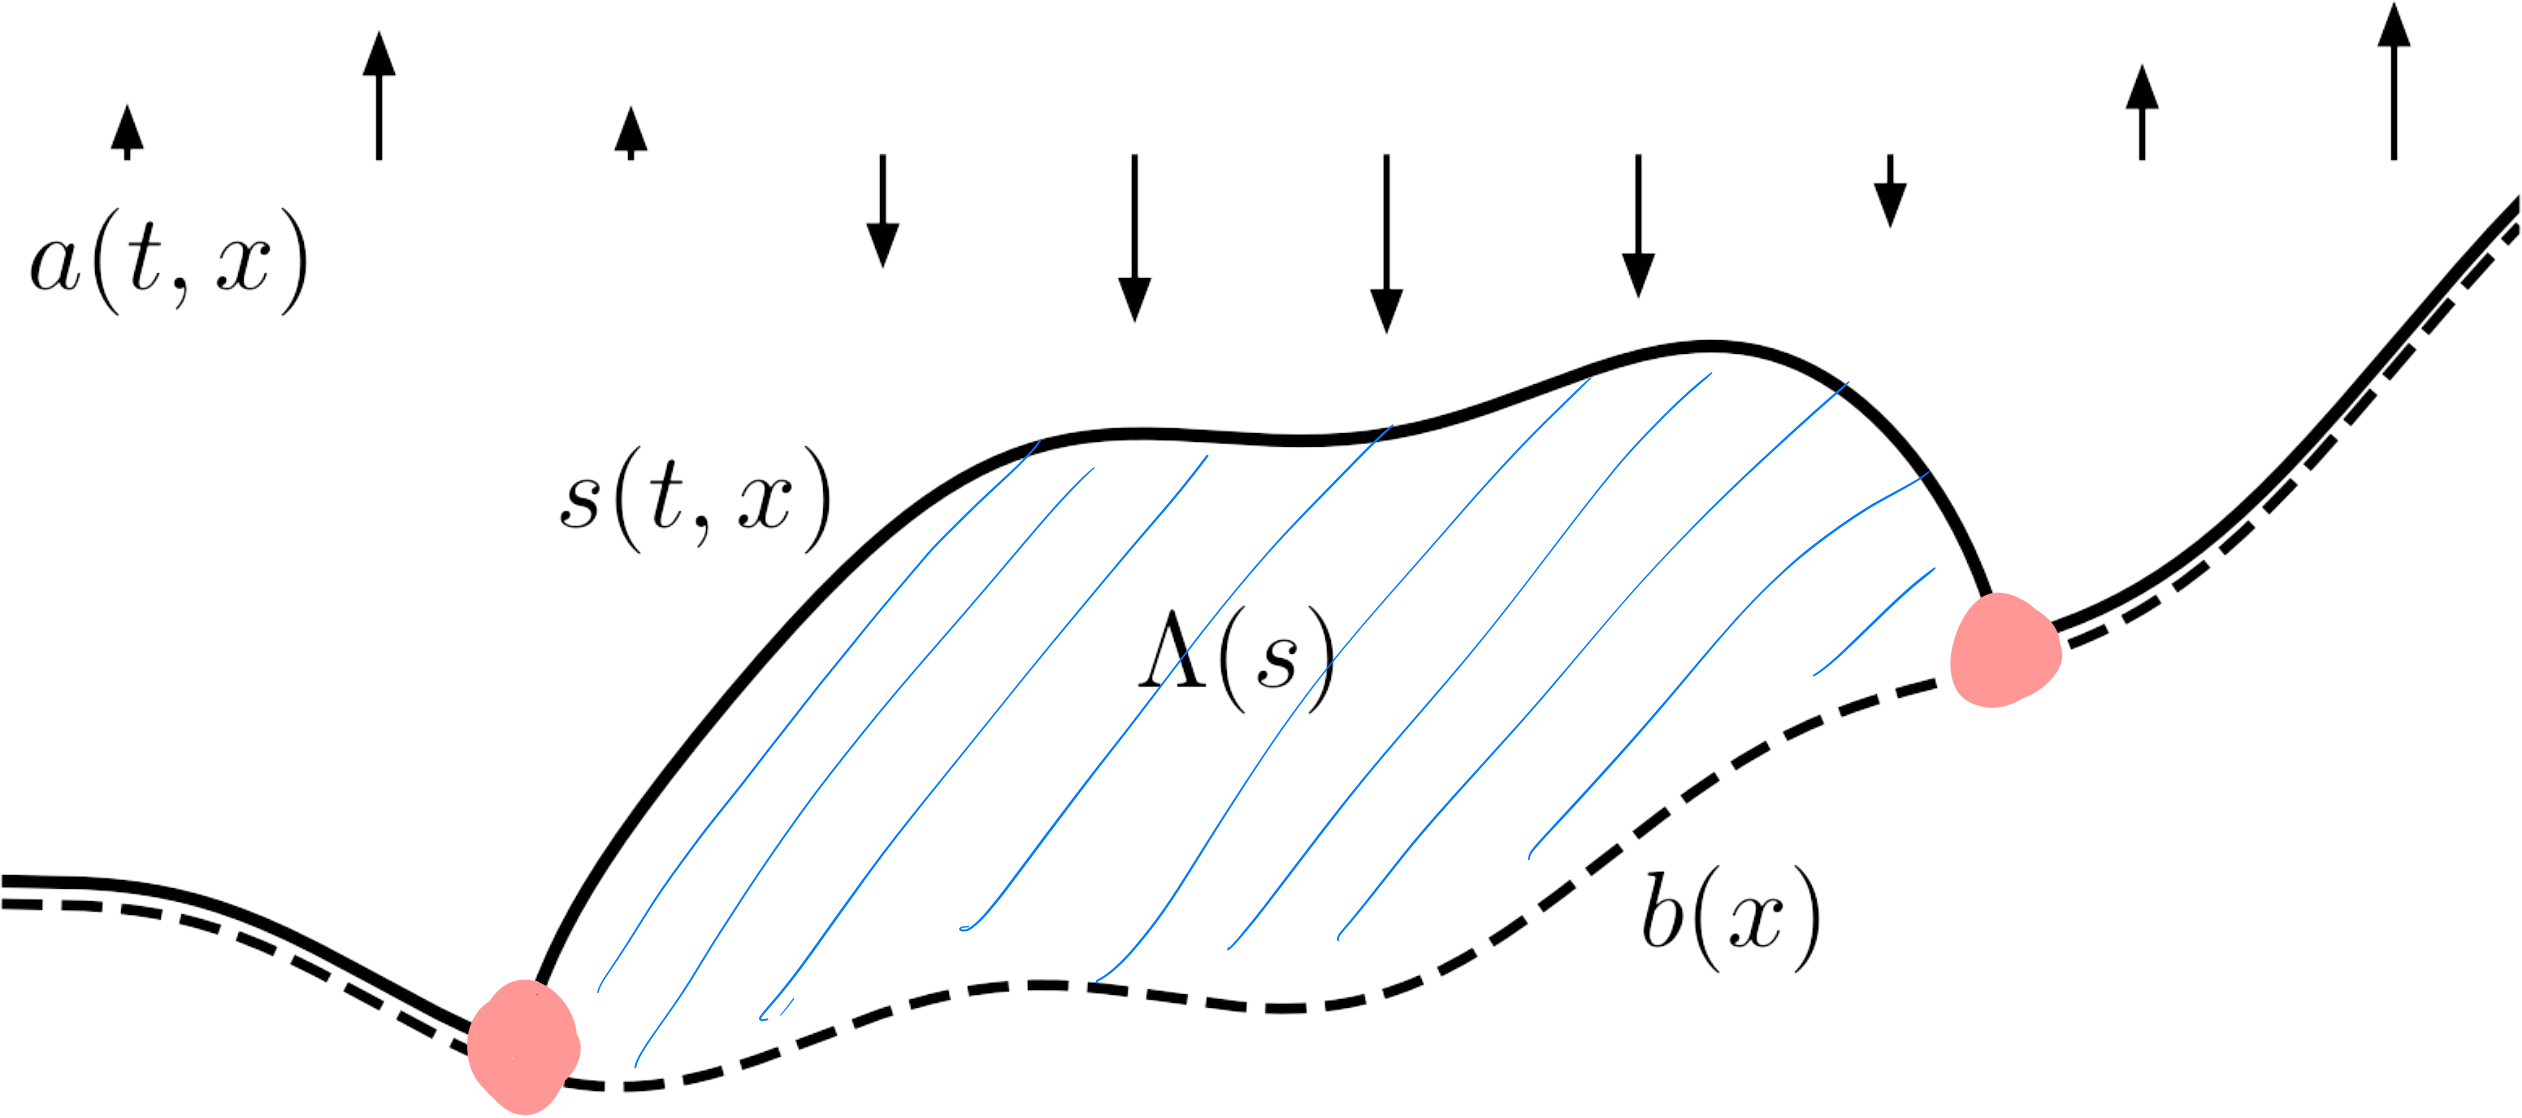
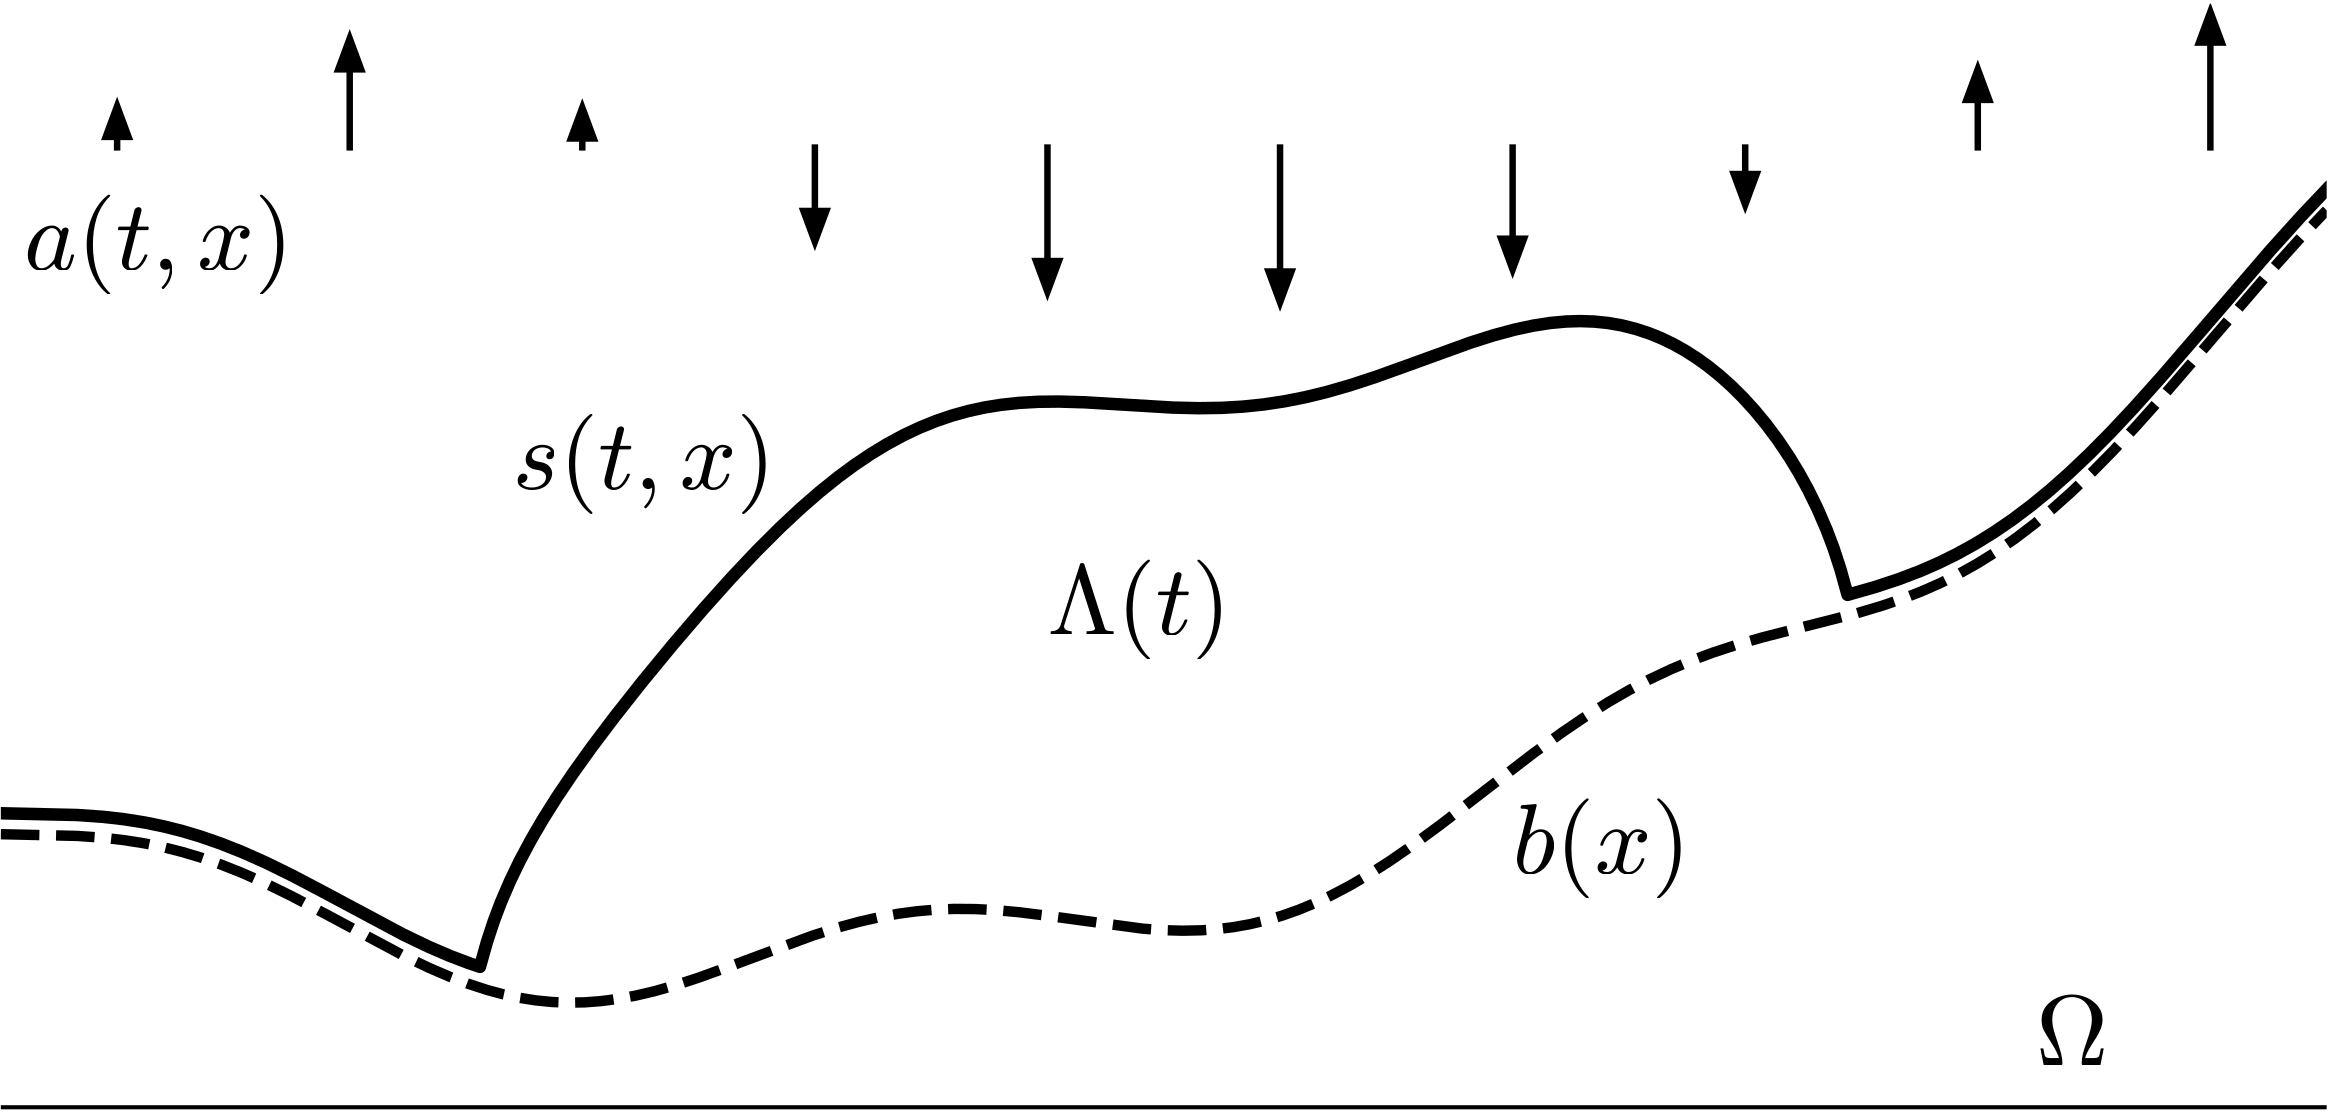
more progress ... maybe this will work

diff --git a/talk/KTHSU25/slides.tex b/talk/KTHSU25/slides.tex
@@ -70,6 +70,7 @@
 
 \newcommand{\bzero}{\bm{0}}
 
+\newcommand{\cH}{\mathcal{H}}
 \newcommand{\cK}{\mathcal{K}}
 \newcommand{\cV}{\mathcal{V}}
 \newcommand{\cX}{\mathcal{X}}
@@ -199,11 +200,11 @@ Add the above: \quad $0 \ge (F(y) - F(x)) \cdot (x-y) +  \alpha \|x - y\|^2$. \q
 \only<2>{
 \begin{itemize}
 \item the solution defines \emph{\aler{active}} $A_u = \{u = \psi\}$ and \emph{\aler{inactive}} $R_u = \{u> \psi\}$ subsets of $\Omega$, and a \emph{\aler{free boundary}} $\Gamma_u=\partial R_u \cap \Omega$
-\item the intuitive/naive strong form poses the problem in terms of its solution (\aler{nonsense}):
+\item the intuitive/naive strong form poses the problem in terms of its solution, a kind of nonsense:
     $$-\grad^2 u = \varphi \quad \text{ on $R_u$, \qquad and \qquad} u = \psi \quad \text{ on $A_u$}$$
-\item the \aler{nonlinear complementarity problem} strong form has sensible statements everywhere on $\Omega$:
-	$$u\ge \psi, \quad -\grad^2 u - \varphi \ge 0, \quad (u-\psi) (-\grad^2 u - \varphi) = 0$$
 \end{itemize}
+
+\vspace{20mm}
 }
 \end{frame}
 
@@ -242,6 +243,25 @@ Add the above: \quad $0 \ge (F(y) - F(x)) \cdot (x-y) +  \alpha \|x - y\|^2$. \q
 \begin{itemize}
 \item $v-u \in \cX$ is a vector pointing feasibly into $\cK$
 \item $(F(u)-\ell)[v-u] \ge 0$ \, $\iff$ \, ``$F(u)-\ell$ is within $90^\circ$ of any $v-u$''
+\end{itemize}
+\end{frame}
+
+
+\begin{frame}{complementarity, a key idea about VIs}
+
+\begin{itemize}
+\item if $u\in\cK$ solves a VI, namely
+$$F(u)[v-u] \ge \ell[v-u] \quad \text{ for all } v \in \mathcal{K},$$
+then \aler{generally the residual $F(u)-\ell$ is nonzero}
+    \begin{itemize}
+    \item[$\circ$] if $\cK=\cX$ (unconstrained) then $F(u)-\ell=0$
+    \end{itemize}
+\item for a unilateral obstacle problem, with $\cK = \{v\in\cX\,:\,v\ge \psi\}$, the residual $F(u)-\ell$ is at least \aler{nonnegative}
+    \begin{itemize}
+    \item[$\circ$] for classical obstacle problem:
+	$$u\ge \psi, \quad -\grad^2 u - \varphi \ge 0, \quad (u-\psi) (-\grad^2 u - \varphi) = 0$$
+    \item<2>[$\circ$] the residual is a positive measure $d\mu_u = F(u)-\ell$ supported in the active set $A_u=\{x\,:\, u(x)=\psi(x)\}$
+    \end{itemize}
 \end{itemize}
 \end{frame}
 
@@ -329,91 +349,55 @@ $$F_h(u_h)[v_h-u_h] \ge \ell[v_h-u_h] \quad \forall v_h \in \cK_h$$
 conforming (?) assumptions:
 \begin{itemize}
 \item $\cK_h \subset \cX_h \subset \cX$
+
+\only<1>{\vspace{22mm}}
 \item<2> \aler{generally $\cK_h \not\subseteq \cK$}
 \item<2> \aler{generally $F_h\neq F$}
 \end{itemize}
 
 \vspace{-25mm}
-\hfill \input{tikz/nonadmissible.tex}
+\hfill \only<2>{\input{tikz/nonadmissible.tex}}
 \end{frame}
 
 
-\begin{frame}{theorem}
+\begin{frame}{\emph{a priori} error bound}
 
 \begin{thm}[B.~'25] assume $F$ is $\qq$-coercive with $\qq>1$ and $\alpha>0$, and Lipschitz continuous.  then there is $c=c(\|u\|,\|u_h\|,\alpha)>0$ so that
 \begin{align*}
 \|u-u_h\|^\qq &\le \frac{2}{\alpha} \left(\inf_{v\in\cK} \left(F(u)-\ell\right)[v-u_h] + \inf_{v_h\in\cK_h} \left(F(u)-\ell\right)[v_h-u]\right) \\
-   &\quad\, + \frac{2}{\alpha} \left(F(u_h)-F_h(u_h)\right)[u_h] + c \inf_{v_h\in\cK_h} \|v_h - u\|^{\qq'}. \notag
+   &\quad\, + \frac{2}{\alpha} \left(F(u_h)-F_h(u_h)\right)[u_h] + c \inf_{v_h\in\cK_h} \|v_h - u\|^{\qq'}
 \end{align*}
 \end{thm}
 
 \begin{itemize}
-\item<2> in the unconstrained case ($\cK=\cX$ and $\cK_h=\cX_h$) with no variational crimes ($F_h=F$), then this is Cea's lemma in a Banach space:
+\only<1>{\item in the unconstrained case ($\cK=\cX$ and $\cK_h=\cX_h$), with no variational crimes ($F_h=F$), this is Cea's lemma in a Banach space:
     $$\|u-u_h\|^\qq \le c \inf_{v_h\in\cK_h} \|v_h - u\|^{\qq'}$$
+
+\vspace{5.5mm}
+\phantom{foo}}
+\only<2>{\item if $\cX$ is a Hilbert space, $F(u)[v]=(Au,v)$ is linear, $\cX \subset \cH$ for some Hilbert space $\cH$, $\qq=2$, and with no variational crimes ($F_h=F$), then this is Falk's (1974) theorem:
+{\small
+\begin{align*}
+\|u-u_h\|^2 &\le \frac{2}{\alpha} \|Au-\ell\|_{\cH'} \left(\inf_{v\in\cK} \|v-u_h\|_{\cH} + \inf_{v_h\in\cK_h} \|v_h-u\|_{\cH}\right) \\
+   &\quad\, + c \inf_{v_h\in\cK_h} \|v_h - u\|^2
+\end{align*}
+}}
 \end{itemize}
-\end{frame}
-
-
-\begin{frame}{FIXME}
-
-FIXME
-\end{frame}
-
-\begin{frame}{FIXME}
-
-FIXME
 \end{frame}
 
 
 \section{the standard glacier model}
 
-\begin{frame}{glacier evolution in space-time \only<2>{ \dots implicitly?}}
-
-\bigskip \bigskip
-
-\begin{columns}
-\begin{column}{0.28\textwidth}
-\begin{itemize}
-\item[a)] what is true within the {\color{RoyalBlue} ice}?
-\item[b)] what is true on {\color{OliveDrab} bare land}?
-\item[c)] what is true on {\color{Salmon} free boundary}?
-\end{itemize}\end{column}
-\begin{column}{0.72\textwidth}
-FIXME %\only<1>{\includegraphics[height=65mm]{xtcrop}}\only<2>{\includegraphics[height=65mm]{implicitstep}}
-\end{column}
-\end{columns}
-\end{frame}
-
-\begin{frame}{the 3 views}
-
-\vspace{-2mm}
-\begin{center}
-FIXME %\includegraphics[width=0.55\textwidth]{xtcrop}
-\end{center}
-
-\vspace{-2mm}
-\begin{columns}
-\begin{column}{0.43\textwidth}
-\includegraphics[width=0.9\textwidth]{mapplane}
-\end{column}
-\begin{column}{0.57\textwidth}
-FIXME %\hfill \includegraphics[width=\textwidth]{stokesdomainOmega}
-\end{column}
-\end{columns}
-\end{frame}
-
-
-\begin{frame}{what is true everywhere in $[0,T]\times\Omega$?}
+\begin{frame}{the free-boundary problem for glacier surface elevation}
 
 \hfill \includegraphics[width=0.37\textwidth]{mapplane}
 
-\vspace{-40mm}
+\vspace{-35mm}
 
 \begin{minipage}[t]{60mm}
 {\small
 \begin{itemize}
-\item $\Omega \subset \RR^2$ fixed simulation domain
-\item $x = (x_1,x_2) \in \Omega$
+\item $\Omega \subset \RR^2$ fixed domain
 \item $a(t,x)$ surface mass balance (SMB)
 \item $b(x)$ bed elevation
 \item $s(t,x)$ \emph{solution} surface elevation
@@ -424,7 +408,7 @@ FIXME %\hfill \includegraphics[width=\textwidth]{stokesdomainOmega}
 \end{minipage}
 
 \begin{itemize}
-\item nonlinear complementarity problem (NCP) in $[0,T] \times \Omega$:
+\item an obstacle problem, here in complementarity problem form, holds in $[0,T] \times \Omega$:
 \begin{align*}
 s - b &\ge 0 &&\phantom{x} \\
 \frac{\partial s}{\partial t} - \bu|_s \cdot \bn_s - a &\ge 0 \\
@@ -437,9 +421,9 @@ s - b &\ge 0 &&\phantom{x} \\
 \begin{frame}{the free-boundary problem for glacier surface elevation}
 
 \begin{itemize}
-\item surface kinematical equation (SKE) in glaciology:
+\item free surface equation:
    $$\frac{\partial s}{\partial t} - \bu|_s \cdot \bn_s - a = 0$$
-\item our time-dependent, nonlinear complementarity problem (NCP) is the underlying \emph{free-boundary} meaning of the SKE:
+\item but the complementarity problem is the actual \emph{free-boundary} meaning of the free surface equation:
 \begin{align*}
 s - b &\ge 0 &&\phantom{x} \\
 \frac{\partial s}{\partial t} - \bu|_s \cdot \bn_s - a &\ge 0 \\
@@ -447,57 +431,58 @@ s - b &\ge 0 &&\phantom{x} \\
 \end{align*}
 
     \begin{itemize}
+    \item[$\circ$] says: free surface equation holds where there is ice
+    \item[$\circ$] says: $a\le 0$ where there is no ice
     \item[$\circ$] applies regardless of dynamical model within the ice
-    \item[$\circ$] this NCP appears in (Calvo et al 2003), but only for shallow ice
+    \item[$\circ$] this appears first in (Calvo et al 2003), but only for shallow ice
     \end{itemize}
-\item state-of-the-art numerically: first-order explicit time-stepping
 \end{itemize}
 \end{frame}
 
 
-\begin{frame}{what is true within the ice?}
+\begin{frame}{Glen-Stokes equations within the ice}
 
-\hfill \includegraphics[width=0.55\textwidth]{stokesdomain}
+\hfill \includegraphics[width=0.45\textwidth]{stokesdomain.png}
 
-\vspace{-5mm}
+\vspace{-4mm}
 
 \begin{itemize}
-\item fix $t$ and define:
-    $$\Lambda(s) = \{(x,z)\,:\,b(x)<z<s(t,x)\} \qquad \subset \RR^3$$
-\item Glen-Stokes equations in $\Lambda(s)$ with $\pp = (\nn + 1)/\nn \approx 4/3$:
+\item define:
+    $$\Lambda(t) = \{(x,z)\,:\,b(x)<z<s(t,x)\} \hspace{20mm}$$
+\item Glen-Stokes equations in $\Lambda(t)$ with $\pp = (\nn + 1)/\nn \approx 4/3$:
 \begin{align*}
 - \nabla \cdot \left(2 \nu(D\bu)\, D\bu\right) + \nabla p &= \rhoi \bg  \\
 \nabla \cdot \bu &= 0  \\
-\nu(D\bu) &= \nu_0 |D\bu|^{\pp-2} && \quad {\scriptsize \leftarrow \text{needs regularization}}
+\nu(D\bu) &= \nu_0 |D\bu|^{\pp-2} && \phantom{foo}
 \end{align*}
 
 \vspace{-1mm}
-\item boundary conditions:
+\item stress boundary conditions:
 \begin{align*}
-&\left(2 \nu(D\bu) D\bu - pI\right) \bn_s = \bzero   && \where{on $\Gamma_s \subset \partial\Lambda(s)$} \\
-&\bu  = \bzero \text{ } \,\text{or } \,f(\bu,D\bu)=0 && \where{on $\Gamma_b \subset \partial\Lambda(s)$}
+&\left(2 \nu(D\bu) D\bu - pI\right) \bn_s = \bzero   && \where{on $\Gamma_s \subset \partial\Lambda(t)$} \\
+&f(\bu,D\bu)=0 && \where{on $\Gamma_b \subset \partial\Lambda(t)$}
 \end{align*}
 \end{itemize}
 \end{frame}
 
 
-\begin{frame}{\underline{the} standard model for glacier evolution}
+\begin{frame}{\underline{the} standard model for glacier evolution?}
 
 \begin{align*}
 s - b &\ge 0 & &\where{in $\Omega$} \\
 \frac{\partial s}{\partial t} - \bu|_s \cdot \bn_s - a &\ge 0 \\
 (s - b) \left(\frac{\partial s}{\partial t} - \bu|_s \cdot \bn_s - a\right) &= 0 \\
-- \nabla \cdot \left(2 \nu_0 |D\bu|^{\pp-2}\, D\bu\right) + \nabla p &= \rhoi \bg && \where{in $\Lambda(s)$} \\
+- \nabla \cdot \left(2 \nu_0 |D\bu|^{\pp-2}\, D\bu\right) + \nabla p &= \rhoi \bg && \where{in $\Lambda(t)$} \\
 \nabla \cdot \bu &= 0 \\
-\left(2 \nu(D\bu) D\bu - pI\right) \bn_s &= \bzero && \where{on $\Gamma_s \subset \partial\Lambda(s)$} \\
-\bu  = \bzero \quad \text{or} \quad f(\bu,D\bu) &= 0 && \where{on $\Gamma_b \subset \partial\Lambda(s)$}
+\left(2 \nu(D\bu) D\bu - pI\right) \bn_s &= \bzero && \where{on $\Gamma_s \subset \partial\Lambda(t)$} \\
+f(\bu,D\bu) &= 0 && \where{on $\Gamma_b \subset \partial\Lambda(t)$}
 \end{align*}
 
 \bigskip
 \newtheorem*{smodel}{standard model}
 
 \begin{smodel}
-an NCP in $[0,T]\times \Omega$, for fixed $\Omega \subset \RR^2$, coupled to a Glen-Stokes problem within the ice, in $\Lambda(s) \subset \RR^3$
+a complementarity problem (obstacle problem) in $[0,T]\times \Omega$, for fixed $\Omega \subset \RR^2$, coupled to a Glen-Stokes problem within the ice $\Lambda(t) \subset \RR^3$
 \end{smodel}
 \end{frame}
 
@@ -514,14 +499,6 @@ an inequality-constrained \textbf{differential algebraic system} in $\infty$ dim
 \end{block}
 \end{frame}
 
-
-\AtBeginSection[]
-{
-  \begin{frame}<beamer>
-    \frametitle{Outline}
-    \tableofcontents[currentsection,hideallsubsections]
-  \end{frame}
-}
 
 
 \section{well-posed implicit steps?}
@@ -668,22 +645,6 @@ find $s\in\cK = \{r \ge b\}$ which solves the backward-Euler step VI:
 \end{itemize}
 
 \phantom{x}
-\end{frame}
-
-
-\begin{frame}{implementation \alert{\dots in progress}}
-
-\begin{itemize}
-\item extruded-mesh Stokes solver infrastructure: \href{https://github.com/bueler/stokes-extrude}{github.com/bueler/stokes-extrude}
-\item solver in Firedrake/PETSc:
-    \begin{itemize}
-    \item[$\circ$] VI-adapted, reduced-space Newton method
-    \item[$\circ$] for admissible surface elevation iterates $s_h^{(j)} \ge b_h$, \alert{each residual evaluation $F(s_h^{(j)})$ requires solving the Glen-Stokes model on $\Lambda(s_h^{(j)})$ to get $\bu_h^{(j)}$}
-    \end{itemize}
-\item accelerate using new FASCD nonlinear multigrid scheme (Bueler \& Farrell, 2024), using above solver as the smoother
-\end{itemize}
-
-\bigskip
 \end{frame}
 
 

diff --git a/talk/KTHSU25/references.tex b/talk/KTHSU25/references.tex
@@ -3,9 +3,9 @@
 \begin{itemize}
 %\item E.~Bueler (2021). \emph{Conservation laws for free-boundary fluid layers}, SIAM J.~Appl.~Math.~81 (5), 2007--2032 \sdoi{10.1137/20M135217X}
 %\item E.~Bueler (2022). \emph{Performance analysis of high-resolution ice-sheet simulations}, J.~Glaciol.~69 (276), 930--935 \sdoi{10.1017/jog.2022.113}
-\item E.~Bueler (2025). \emph{Surface elevation errors in finite element {S}tokes models for glacier evolution}, \surl{https://arxiv.org/abs/2408.06470}{arxiv:2408.06470}
+\item E.~Bueler (2025). \emph{Surface elevation errors in finite element {S}tokes models for glacier evolution}, in preparation \surl{https://arxiv.org/abs/2408.06470}{arxiv:2408.06470}
 %\item E.~Bueler \& P.~Farrell (2024).  \emph{A full approximation scheme multilevel method for nonlinear variational inequalities}, SIAM J.~Sci.~Comput.~46 (4), \sdoi{10.1137/23M1594200}
-%\item N.~Calvo and others (2003). \emph{On a doubly nonlinear parabolic obstacle problem modelling ice sheet dynamics}, SIAM J.~Appl.~Math.~63 (2), 683--707 \sdoi{10.1137/S0036139901385345}
+\item N.~Calvo and others (2003). \emph{On a doubly nonlinear parabolic obstacle problem modelling ice sheet dynamics}, SIAM J.~Appl.~Math.~63 (2), 683--707 \sdoi{10.1137/S0036139901385345}
 \item R.~Falk (1974).  \emph{Error estimates for the approximation of a class of variational inequalities}, Mathematics of Computation 28 (128), 963--971
 %\item G.~Jouvet \& E.~Bueler (2012). \emph{Steady, shallow ice sheets as obstacle problems: well-posedness and finite element approximation}, SIAM J.~Appl.~Math.~72 (4), 1292--1314 \sdoi{10.1137/110856654}
 \item G.~Jouvet \& J.~Rappaz (2011). \emph{Analysis and finite element approximation of a nonlinear stationary {S}tokes problem arising in glaciology}, Adv.~Numer.~Analysis 2011 (164581) \sdoi{10.1155/2011/164581}
